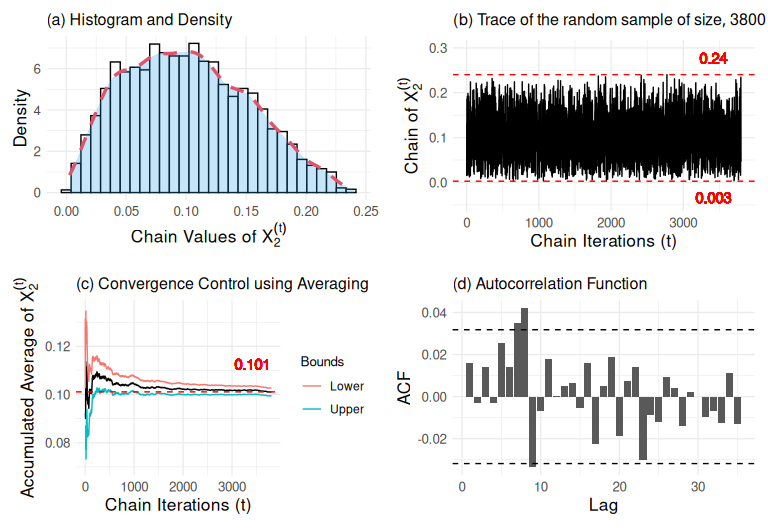
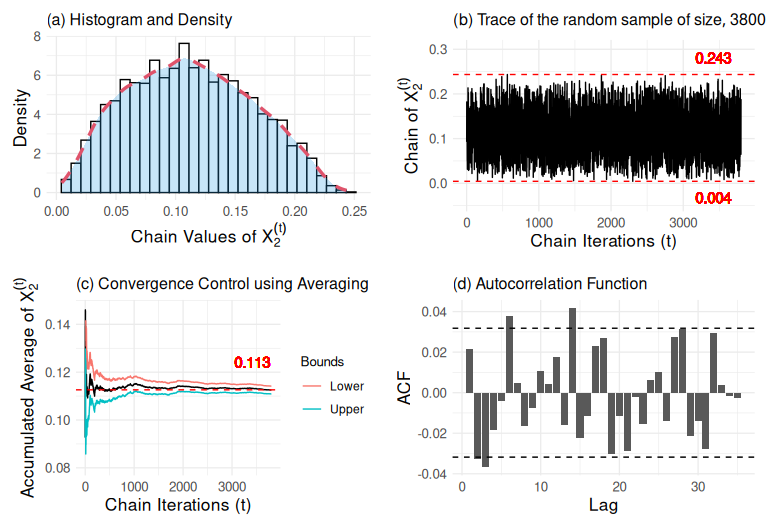
Update

diff --git a/randomsamples.md b/randomsamples.md
@@ -170,9 +170,9 @@ df
 ```
 
     ##                    Acceptance.Rate Acceptance.Rate.Post.Burn.in      ESS Length
-    ## Chain Measurements       0.5655857                    0.5647638 3453.489   3800
+    ## Chain Measurements       0.5651557                     0.565606 3355.869   3800
     ##                    Precision
-    ## Chain Measurements  2.991299
+    ## Chain Measurements  2.992924
 
 ## Convergence Monitoring with Fixed Seeds
 
@@ -228,7 +228,7 @@ round(apply(ExampleFC_X1_X2_seedgiven[1:3800,], 2, mean),3)
 ```
 
     ##   0.1   0.2   0.3   0.4   0.5   0.6   0.7   0.8   0.9 
-    ## 0.500 0.501 0.498 0.502 0.503 0.494 0.505 0.504 0.496
+    ## 0.504 0.497 0.503 0.504 0.502 0.502 0.498 0.497 0.506
 
 # Gibbs Sampling
 
@@ -243,7 +243,7 @@ density versus histogram, trace, cumulative mean, and autocorrelation.
 
 ``` r
 N=10^5
-Example_Joint_Dist=Gen_Joint_Dist(N1 = N,N2 = 102,prop_prec = 3,a1,b1,c1,d1,thin = 2,X10_given ="random",target_acceptance = 0.4,batch_adapt_acceptance_rate=20)
+Example_Joint_Dist=Gen_Joint_Dist(N1 = N,N2 = 2,prop_prec = 3,a1,b1,c1,d1,thin = 2,X10_given ="random",target_acceptance = 0.4,batch_adapt_acceptance_rate=100)
 burnin=5000;thin=25
 Graphs(as.data.frame(Example_Joint_Dist$X2[seq((burnin+1), N, by=thin)]),"X2",width = 40,uscatt = 0.06,lscatt = 0.05)
 ```
@@ -364,28 +364,28 @@ combined_df %>%
 
 |                | Numerical Results | Theoretical Results | Differences |
 |:---------------|------------------:|--------------------:|------------:|
-| Mean_X1        |             0.886 |               0.917 |       0.031 |
-| Var_X1         |             2.311 |               7.851 |       5.541 |
+| Mean_X1        |             0.858 |               0.917 |       0.059 |
+| Var_X1         |             1.902 |               7.851 |       5.949 |
 | ESS_X1         |          3800.000 |            3800.000 |       0.000 |
-| STDERR_Mean_X1 |             0.025 |                  NA |          NA |
-| STDERR_Var_X1  |             0.396 |                  NA |          NA |
-| CI_Mean1_Lower |             0.041 |                  NA |          NA |
-| CI_Mean1_Upper |             4.140 |                  NA |          NA |
-| CI_Var1_Lower  |             1.630 |                  NA |          NA |
-| CI_Var1_Upper  |             3.147 |                  NA |          NA |
-| Mean_X2        |             0.873 |               0.917 |       0.043 |
-| Var_X2         |             2.210 |               7.851 |       5.641 |
+| STDERR_Mean_X1 |             0.022 |                  NA |          NA |
+| STDERR_Var_X1  |             0.314 |                  NA |          NA |
+| CI_Mean1_Lower |             0.053 |                  NA |          NA |
+| CI_Mean1_Upper |             3.904 |                  NA |          NA |
+| CI_Var1_Lower  |             1.368 |                  NA |          NA |
+| CI_Var1_Upper  |             2.603 |                  NA |          NA |
+| Mean_X2        |             0.871 |               0.917 |       0.046 |
+| Var_X2         |             1.835 |               7.851 |       6.016 |
 | ESS_X2         |          3800.000 |            3800.000 |       0.000 |
-| STDERR_Mean_X2 |             0.024 |                  NA |          NA |
-| STDERR_Var_X2  |             0.493 |                  NA |          NA |
-| CI_Mean2_Lower |             0.037 |                  NA |          NA |
-| CI_Mean2_Upper |             4.338 |                  NA |          NA |
-| CI_Var2_Lower  |             1.481 |                  NA |          NA |
-| CI_Var2_Upper  |             3.342 |                  NA |          NA |
-| Cov            |             1.428 |               5.135 |       3.707 |
-| STDERR_Cov     |             0.354 |                  NA |          NA |
-| CI_Cov_Lower   |             0.900 |                  NA |          NA |
-| CI_Cov_Upper   |             2.223 |                  NA |          NA |
+| STDERR_Mean_X2 |             0.022 |                  NA |          NA |
+| STDERR_Var_X2  |             0.235 |                  NA |          NA |
+| CI_Mean2_Lower |             0.054 |                  NA |          NA |
+| CI_Mean2_Upper |             4.220 |                  NA |          NA |
+| CI_Var2_Lower  |             1.405 |                  NA |          NA |
+| CI_Var2_Upper  |             2.351 |                  NA |          NA |
+| Cov            |             1.391 |               5.135 |       3.744 |
+| STDERR_Cov     |             0.210 |                  NA |          NA |
+| CI_Cov_Lower   |             1.020 |                  NA |          NA |
+| CI_Cov_Upper   |             1.870 |                  NA |          NA |
 | Length         |          3800.000 |            3800.000 |       0.000 |
 
 Summary Statistics for Different Measures
@@ -412,7 +412,7 @@ Gelm_Rud_X2 = gelman.diag(list(mcmc(sample1$X2[seq((burnin+1), N, by=thin)]), mc
 print(c(Gelm_Rud_X1,Gelm_Rud_X2))
 ```
 
-    ## [1] 1.000084 1.000262
+    ## [1] 0.9998907 1.0003560
 
 # Comparison Using an Alternative Parameter Configuration
 
@@ -423,9 +423,9 @@ that the thinning factor was reduced to 5.
 
 ``` r
 a2=3;b2=6;c2=3;d2=6
-Example_Joint_Dist1=Gen_Joint_Dist(N1 = 10^5,N2 = 2,prop_prec=4,a = a2,b = b2,c = c2,d = d2,thin = 2, X10_given = "random",target_acceptance = 0.4)
+Example_Joint_Dist1=Gen_Joint_Dist(N1 = 10^5,N2 = 2,prop_prec=3,a = a2,b = b2,c = c2,d = d2,thin = 2, X10_given = "random",target_acceptance = 0.4)
 
-results_measure_diag1=Measure_Diagnostic(data1 = Example_Joint_Dist1$X1,data2 = Example_Joint_Dist1$X2, var ="transform", digits = 3, a = a2, b = b2, c = c2, d = d2, burnin = 5000, thin = 5)
+results_measure_diag1=Measure_Diagnostic(data1 = Example_Joint_Dist1$X1,data2 = Example_Joint_Dist1$X2, var ="transform", digits = 3, a = a2, b = b2, c = c2, d = d2, burnin = 5000, thin = 25)
 ```
 
 The table below presents the updated numerical estimates, theoretical
@@ -450,29 +450,29 @@ combined_df %>%
 
 |                | Numerical Results | Theoretical Results | Differences |
 |:---------------|------------------:|--------------------:|------------:|
-| Mean_X1        |             1.086 |                 1.0 |      -0.086 |
-| Var_X1         |             1.828 |                 1.8 |      -0.028 |
-| ESS_X1         |         19000.000 |             19000.0 |       0.000 |
-| STDERR_Mean_X1 |             0.010 |                  NA |          NA |
-| STDERR_Var_X1  |             0.253 |                  NA |          NA |
-| CI_Mean1_Lower |             0.148 |                  NA |          NA |
-| CI_Mean1_Upper |             4.258 |                  NA |          NA |
-| CI_Var1_Lower  |             1.438 |                  NA |          NA |
-| CI_Var1_Upper  |             2.403 |                  NA |          NA |
-| Mean_X2        |             1.942 |                 2.0 |       0.058 |
-| Var_X2         |             5.252 |                 5.8 |       0.548 |
-| ESS_X2         |         19000.000 |             19000.0 |       0.000 |
-| STDERR_Mean_X2 |             0.017 |                  NA |          NA |
-| STDERR_Var_X2  |             0.698 |                  NA |          NA |
-| CI_Mean2_Lower |             0.309 |                  NA |          NA |
-| CI_Mean2_Upper |             7.204 |                  NA |          NA |
-| CI_Var2_Lower  |             4.193 |                  NA |          NA |
-| CI_Var2_Upper  |             6.891 |                  NA |          NA |
-| Cov            |             2.466 |                 2.2 |      -0.266 |
-| STDERR_Cov     |             0.408 |                  NA |          NA |
-| CI_Cov_Lower   |             1.871 |                  NA |          NA |
-| CI_Cov_Upper   |             3.443 |                  NA |          NA |
-| Length         |         19000.000 |             19000.0 |       0.000 |
+| Mean_X1        |             1.050 |                 1.0 |      -0.050 |
+| Var_X1         |             1.542 |                 1.8 |       0.258 |
+| ESS_X1         |          3800.000 |              3800.0 |       0.000 |
+| STDERR_Mean_X1 |             0.020 |                  NA |          NA |
+| STDERR_Var_X1  |             0.218 |                  NA |          NA |
+| CI_Mean1_Lower |             0.155 |                  NA |          NA |
+| CI_Mean1_Upper |             3.925 |                  NA |          NA |
+| CI_Var1_Lower  |             1.158 |                  NA |          NA |
+| CI_Var1_Upper  |             2.031 |                  NA |          NA |
+| Mean_X2        |             1.881 |                 2.0 |       0.119 |
+| Var_X2         |             4.257 |                 5.8 |       1.543 |
+| ESS_X2         |          3181.712 |              3800.0 |     618.288 |
+| STDERR_Mean_X2 |             0.037 |                  NA |          NA |
+| STDERR_Var_X2  |             0.489 |                  NA |          NA |
+| CI_Mean2_Lower |             0.303 |                  NA |          NA |
+| CI_Mean2_Upper |             7.379 |                  NA |          NA |
+| CI_Var2_Lower  |             3.424 |                  NA |          NA |
+| CI_Var2_Upper  |             5.235 |                  NA |          NA |
+| Cov            |             1.900 |                 2.2 |       0.300 |
+| STDERR_Cov     |             0.248 |                  NA |          NA |
+| CI_Cov_Lower   |             1.483 |                  NA |          NA |
+| CI_Cov_Upper   |             2.389 |                  NA |          NA |
+| Length         |          3800.000 |              3800.0 |       0.000 |
 
 Summary Statistics for Different Measures
 
@@ -496,7 +496,7 @@ Gelm_Rud_X2 = gelman.diag(list(mcmc(sample1$X2[seq((burnin+1), N, by=thin)]), mc
 print(c(Gelm_Rud_X1,Gelm_Rud_X2))
 ```
 
-    ## [1] 1.0002408 0.9999794
+    ## [1] 1.000222 1.000416
 
 # Application
 
@@ -504,7 +504,7 @@ print(c(Gelm_Rud_X1,Gelm_Rud_X2))
 a3=141.6457; b3=2263.205; c3=39.48316; d3=3092.636
 Example_Joint_Dist3=Gen_Joint_Dist(N1 = 10^5,N2 = 2,prop_prec=3,a = a3,b = b3,c = c3,d = d3,thin = 2, X10_given = "random",target_acceptance = 0.4)
 
-results_measure_diag3=Measure_Diagnostic(data1 = Example_Joint_Dist3$X1,data2 = Example_Joint_Dist3$X2, var ="transform", digits = 3, a = a3, b = b3, c = c3, d = d3, burnin = 5000, thin = 5)
+results_measure_diag3=Measure_Diagnostic(data1 = Example_Joint_Dist3$X1,data2 = Example_Joint_Dist3$X2, var ="transform", digits = 3, a = a3, b = b3, c = c3, d = d3, burnin = 5000, thin = 25)
 ```
 
 ``` r
@@ -526,29 +526,29 @@ combined_df %>%
 
 |                | Numerical Results | Theoretical Results | Differences |
 |:---------------|------------------:|--------------------:|------------:|
-| Mean_X1        |             4.784 |               4.733 |      -0.051 |
-| Var_X1         |             0.781 |               0.758 |      -0.023 |
-| ESS_X1         |         19000.000 |           19000.000 |       0.000 |
-| STDERR_Mean_X1 |             0.006 |                  NA |          NA |
-| STDERR_Var_X1  |             0.011 |                  NA |          NA |
-| CI_Mean1_Lower |             3.329 |                  NA |          NA |
-| CI_Mean1_Upper |             6.786 |                  NA |          NA |
-| CI_Var1_Lower  |             0.762 |                  NA |          NA |
-| CI_Var1_Upper  |             0.801 |                  NA |          NA |
-| Mean_X2        |            75.526 |              75.630 |       0.104 |
-| Var_X2         |           155.367 |             154.651 |      -0.716 |
-| ESS_X2         |         19000.000 |           19000.000 |       0.000 |
-| STDERR_Mean_X2 |             0.090 |                  NA |          NA |
-| STDERR_Var_X2  |             2.126 |                  NA |          NA |
-| CI_Mean2_Lower |            54.872 |                  NA |          NA |
-| CI_Mean2_Upper |           103.797 |                  NA |          NA |
-| CI_Var2_Lower  |           151.491 |                  NA |          NA |
-| CI_Var2_Upper  |           159.359 |                  NA |          NA |
-| Cov            |             9.719 |               9.517 |      -0.202 |
-| STDERR_Cov     |             0.145 |                  NA |          NA |
-| CI_Cov_Lower   |             9.461 |                  NA |          NA |
-| CI_Cov_Upper   |             9.989 |                  NA |          NA |
-| Length         |         19000.000 |           19000.000 |       0.000 |
+| Mean_X1        |             4.793 |               4.733 |      -0.060 |
+| Var_X1         |             0.795 |               0.758 |      -0.037 |
+| ESS_X1         |          3800.000 |            3800.000 |       0.000 |
+| STDERR_Mean_X1 |             0.014 |                  NA |          NA |
+| STDERR_Var_X1  |             0.021 |                  NA |          NA |
+| CI_Mean1_Lower |             3.347 |                  NA |          NA |
+| CI_Mean1_Upper |             6.842 |                  NA |          NA |
+| CI_Var1_Lower  |             0.752 |                  NA |          NA |
+| CI_Var1_Upper  |             0.838 |                  NA |          NA |
+| Mean_X2        |            75.582 |              75.630 |       0.048 |
+| Var_X2         |           157.218 |             154.651 |      -2.567 |
+| ESS_X2         |          3800.000 |            3800.000 |       0.000 |
+| STDERR_Mean_X2 |             0.203 |                  NA |          NA |
+| STDERR_Var_X2  |             3.916 |                  NA |          NA |
+| CI_Mean2_Lower |            55.446 |                  NA |          NA |
+| CI_Mean2_Upper |           104.685 |                  NA |          NA |
+| CI_Var2_Lower  |           148.318 |                  NA |          NA |
+| CI_Var2_Upper  |           166.604 |                  NA |          NA |
+| Cov            |             9.858 |               9.517 |      -0.341 |
+| STDERR_Cov     |             0.252 |                  NA |          NA |
+| CI_Cov_Lower   |             9.275 |                  NA |          NA |
+| CI_Cov_Upper   |            10.474 |                  NA |          NA |
+| Length         |          3800.000 |            3800.000 |       0.000 |
 
 Summary Statistics for Different Measures
 
@@ -568,4 +568,4 @@ Gelm_Rud_X2 = gelman.diag(list(mcmc(sample1$X2[seq((burnin+1), N, by=thin)]), mc
 print(c(Gelm_Rud_X1,Gelm_Rud_X2))
 ```
 
-    ## [1] 1.0000941 0.9998833
+    ## [1] 1.000223 1.000178
